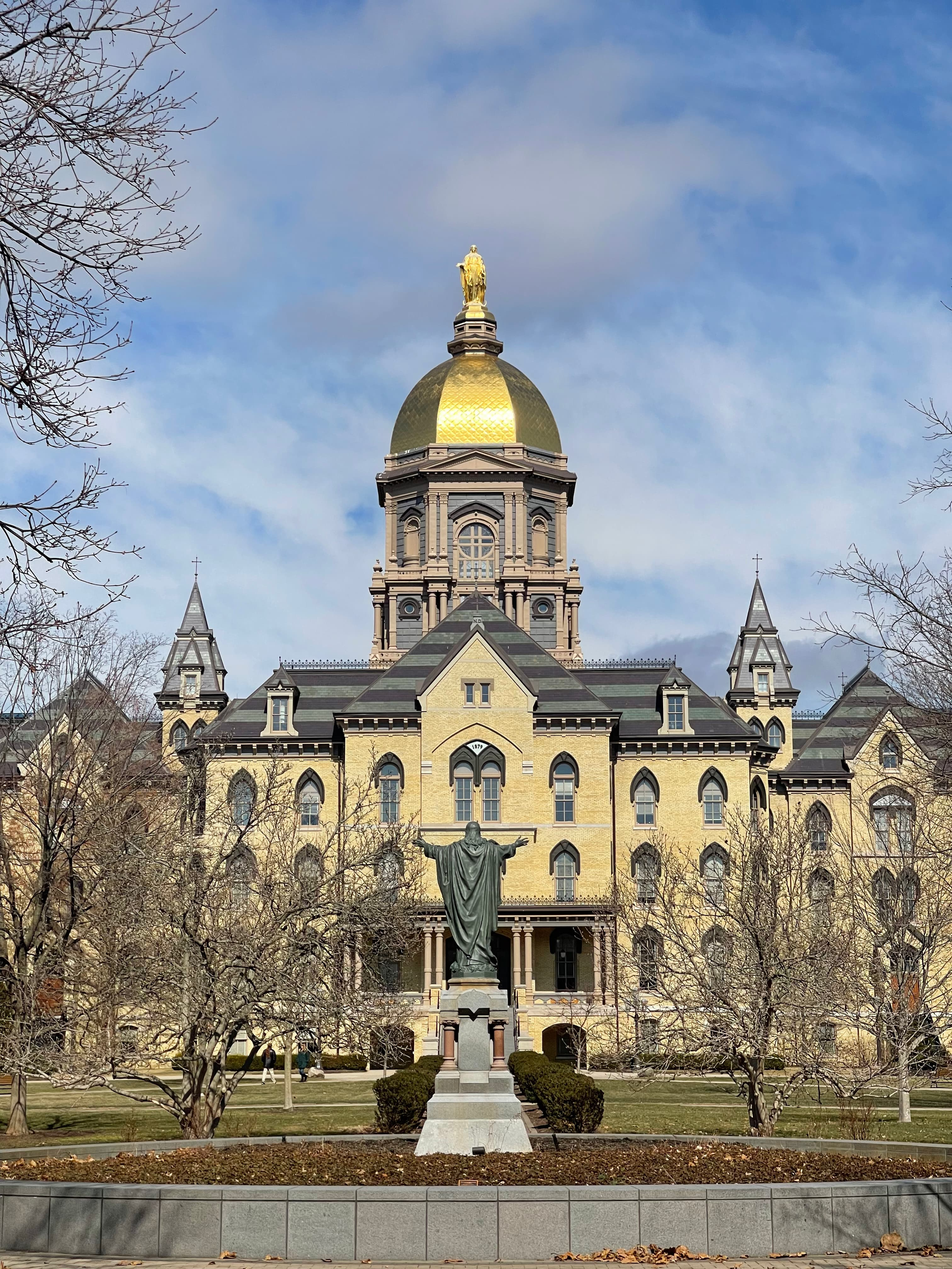
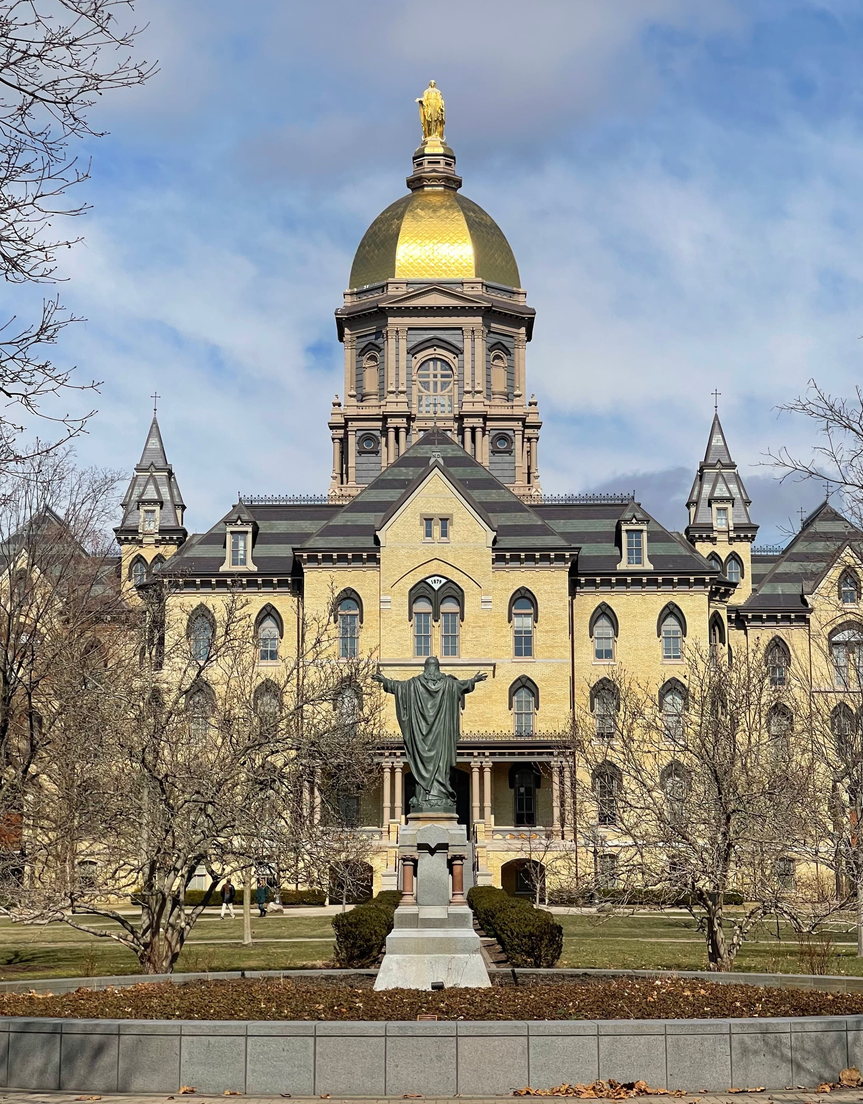
feat(/): socials

diff --git a/src/pages/index.tsx b/src/pages/index.tsx
@@ -1,6 +1,8 @@
 // import { useState } from 'react';
 
-// import { FaBars } from 'react-icons/fa';
+import { FiMail, FiLinkedin, FiGithub, FiTwitter } from 'react-icons/fi';
+
+import SocialIcon from '@/components/SocialIcon';
 
 import Image from 'next/image';
 
@@ -29,35 +31,65 @@ export default function Index() {
         </nav>
       </header>
 
-      <main className="flex flex-col min-h-screen mt-6">
-        <div className="h-[70vh] relative mb-3">
+      <main className="flex flex-col items-center mt-6">
+        <div className="h-[80vh] w-full max-w-5xl relative mb-3">
           <Image
             alt="Mountains"
             src="/images/nd.jpg"
             layout="fill"
             objectFit="cover"
+            objectPosition="center 15%"
             quality={100}
           />
 
-          <div className="relative flex flex-col items-center justify-center w-full h-full p-4 bg-black/60">
+          <div className="relative flex flex-col items-center justify-center w-full h-full p-4 bg-black/75">
             <div className="max-w-[40ch] text-center py-8">
-              <p className="text-2xl font-bold text-slate-300">Hi, I&apos;m</p>
-              <p className="mt-4 mb-4 text-6xl font-bold text-white">
+              <p className="mt-2 text-2xl font-bold text-slate-300">
+                Hi,{` `}
+                {/* <span className="mx-auto text-4xl font-bold text-slate-300 wave">
+                  👋🏻
+                </span>
+              </p>
+              <p className="text-2xl font-bold text-slate-300"> */}
+                I&apos;m
+              </p>
+              <p className="mt-2 mb-4 text-6xl font-bold text-white">
                 Steven Conaway
               </p>
-              <p className="text-xl font-bold text-slate-300">
+              <p className="mb-8 text-xl font-bold text-slate-300">
                 I&apos;m a software developer and a sophomore at the University
                 of Notre Dame.
               </p>
+
+              <div className="border-slate-300 border-b w-full h-[1px]"></div>
+
+              <div className="flex flex-row justify-around mt-4">
+                <SocialIcon
+                  icon={<FiMail />}
+                  url="mailto:steven@stevenconaway.me"
+                  description="Email"
+                />
+
+                <SocialIcon
+                  icon={<FiLinkedin />}
+                  url="https://www.linkedin.com/in/steven-conaway/"
+                  description="LinkedIn"
+                />
+
+                <SocialIcon
+                  icon={<FiGithub />}
+                  url="https://github.com/SConaway"
+                  description="GitHub"
+                />
+
+                <SocialIcon
+                  icon={<FiTwitter />}
+                  url="https://twitter.com/StevenConaway4"
+                  description="Twitter"
+                />
+              </div>
             </div>
           </div>
-          {/* </div> */}
-
-          {/* <p className={bgText}>
-            Image Component
-            <br />
-            as a Background
-          </p> */}
         </div>
 
         <div className="mt-3 text-white">

diff --git a/src/styles/global.css b/src/styles/global.css
@@ -13,3 +13,38 @@ body {
     overscroll-behavior: auto;
   }
 } */
+
+.wave {
+  animation-name: wave-animation; /* Refers to the name of your @keyframes element below */
+  animation-duration: 2.5s; /* Change to speed up or slow down */
+  animation-iteration-count: infinite; /* Never stop waving :) */
+  transform-origin: 70% 70%; /* Pivot around the bottom-left palm */
+  display: inline-block;
+}
+
+@keyframes wave-animation {
+  0% {
+    transform: rotate(0deg);
+  }
+  10% {
+    transform: rotate(14deg);
+  } /* The following five values can be played with to make the waving more or less extreme */
+  20% {
+    transform: rotate(-8deg);
+  }
+  30% {
+    transform: rotate(14deg);
+  }
+  40% {
+    transform: rotate(-4deg);
+  }
+  50% {
+    transform: rotate(10deg);
+  }
+  60% {
+    transform: rotate(0deg);
+  } /* Reset for the last half to pause */
+  100% {
+    transform: rotate(0deg);
+  }
+}

diff --git a/src/components/SocialIcon.tsx b/src/components/SocialIcon.tsx
@@ -1,0 +1,17 @@
+type Props = {
+  icon: JSX.Element;
+  url: string;
+  description: string;
+};
+
+const SocialIcon = (props: Props) => {
+  return (
+    <div className="p-2 text-4xl transition-transform border border-solid rounded-full hover:scale-110 text-slate-300 border-slate-300 hover:border-slate-500 hover:text-slate-500">
+      <a href={props.url} className="">
+        {props.icon}
+      </a>
+    </div>
+  );
+};
+
+export default SocialIcon;
